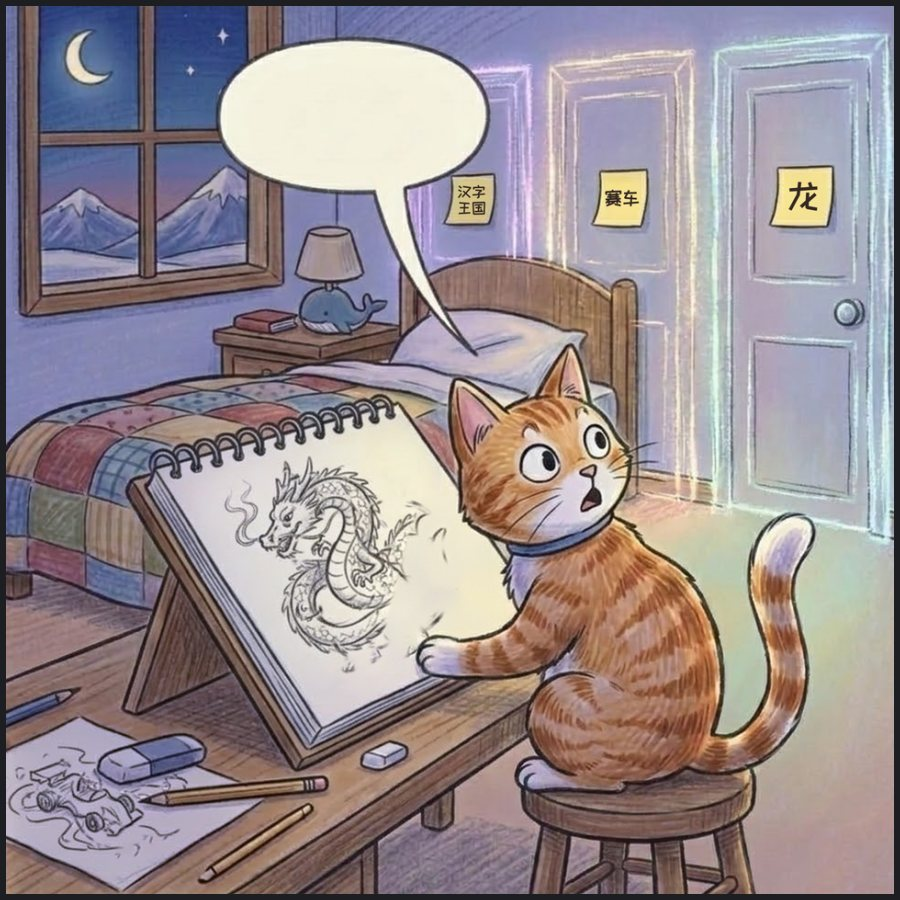
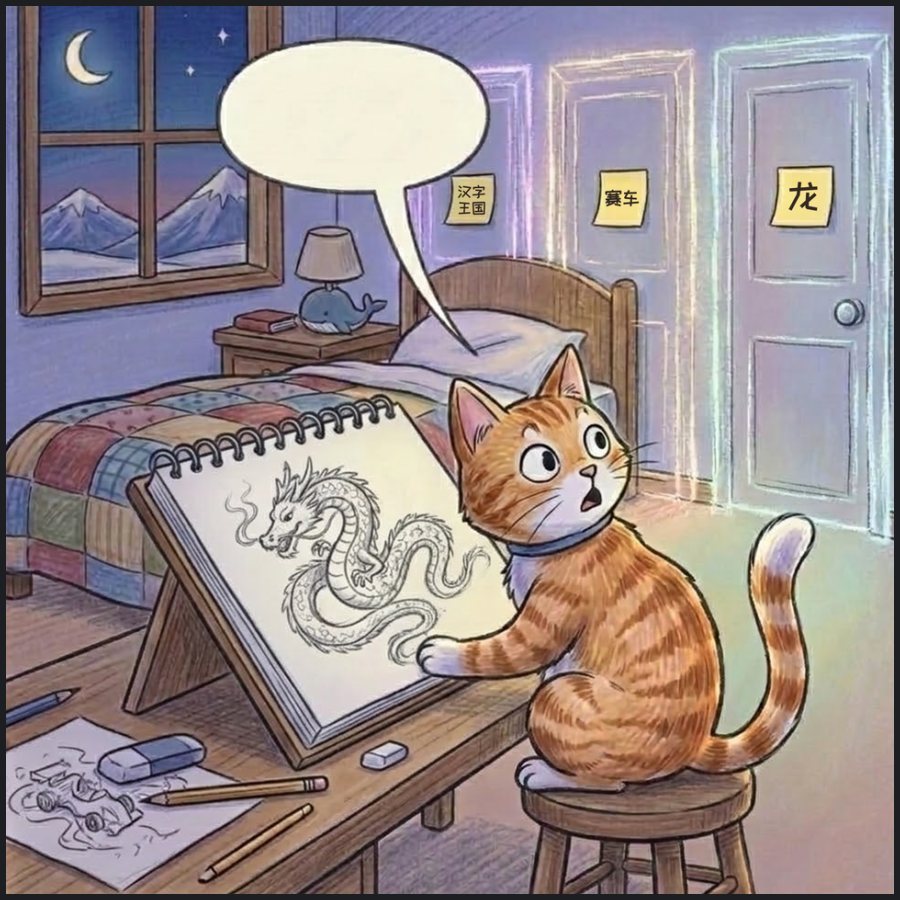
Ep6: new frames 2 and 4 (big dragon)
Claude-Session: https://claude.ai/code/session_01NreAqm5NtqDWekSoZfY2fL

diff --git a/ep6/index.html b/ep6/index.html
@@ -197,7 +197,7 @@ body.show-en .story{gap:2px}
   <section class="panel">
     <div class="story"><p data-line="忽然|，|墙上|亮了起来|，" data-en="Suddenly, the wall lit up,"></p><p data-line="出现了|三扇门|！" data-en="and three doors appeared!"></p><p data-line="每扇门|上|都|贴着|字|。" data-en="Each door had a word stuck on it."></p></div>
     <figure>
-      <img src="sq2.jpg?v=2" alt="Three glowing doors appear on the bedroom wall, each with a note; the cat turns round in surprise" width="900" height="900">
+      <img src="sq2.jpg?v=3" alt="Three glowing doors appear on the bedroom wall, each with a note; the cat turns round in surprise" width="900" height="900">
       <button class="bub" data-who="cat" data-line="咦|？|这|是|什么|？" data-en="Huh? What's this?" data-show="咦？/这是什么？" style="left:28.2%;top:5.8%;width:21.9%;height:14.1%;font-size:4.0cqw;line-height:1.25"></button>
     </figure>
   </section>
@@ -209,10 +209,10 @@ body.show-en .story{gap:2px}
     </figure>
   </section>
   <section class="panel">
-    <div class="story"><p data-line="他|把|门|又|推开了|一些|……" data-en="He pushed the door open a bit more…"></p><p data-line="不知不觉|间|，|一条|小龙|向|他|飞了过来|。" data-en="Without him noticing, a little dragon flew towards him."></p><p data-line="呼|——|喷出了|一团火|！" data-en="Whoosh — it breathed out a ball of fire!"></p></div>
+    <div class="story"><p data-line="他|把|门|又|推开了|一些|……" data-en="He pushed the door open a bit more…"></p><p data-line="不知不觉|间|，|一条|大龙|向|他|飞了过来|。" data-en="Without him noticing, a big dragon flew towards him."></p><p data-line="呼|——|喷出了|一团火|！" data-en="Whoosh — it breathed out a ball of fire!"></p></div>
     <figure>
-      <img src="sq4.jpg?v=1" alt="A little orange dragon flies at the doorway breathing fire while the terrified cat clings to the door" width="900" height="900">
-      <button class="bub" data-who="cat" data-line="龙|？|！|为什么|会|有|龙|啊|？|！" data-en="A dragon?! Why is there a dragon?!" data-show="龙？！/为什么会/有龙啊？！" style="left:12.7%;top:28.2%;width:17.7%;height:13.1%;font-size:3.2cqw;line-height:1.25"></button>
+      <img src="sq4.jpg?v=2" alt="A little orange dragon flies at the doorway breathing fire while the terrified cat clings to the door" width="900" height="900">
+      <button class="bub" data-who="cat" data-line="龙|？|！|为什么|会|有|龙|啊|？|！" data-en="A dragon?! Why is there a dragon?!" data-show="龙？！/为什么会/有龙啊？！" style="left:36.2%;top:24.9%;width:18.0%;height:12.9%;font-size:3.2cqw;line-height:1.25"></button>
     </figure>
   </section>
   <section class="panel">
@@ -256,7 +256,7 @@ body.show-en .story{gap:2px}
 <div id="tip" hidden role="status"></div>
 
 <script>
-const DICT={"今天的": ["jīn tiān de", "today's"], "成语": ["chéng yǔ", "idiom (4-character saying)"], "跳": ["tiào", "jump"], "下一集": ["xià yì jí", "next episode"], "企鹅": ["qǐ é", "penguin"], "名叫": ["míng jiào", "is called, named"], "小林": ["xiǎo lín", "Xiao Lin — the penguin's name"], "猫": ["māo", "cat"], "小懒猫": ["xiǎo lǎn māo", "Little Lazy Cat — the cat's name"], "不知不觉": ["bù zhī bù jué", "without noticing (idiom)"], "晚上": ["wǎn shang", "evening, night"], "在": ["zài", "in, at"], "房间": ["fáng jiān", "room"], "里": ["lǐ", "in, inside"], "画画": ["huà huà", "draw, drawing"], "叫": ["jiào", "call"], "他": ["tā", "he, him"], "吃饭": ["chī fàn", "eat (a meal)"], "可": ["kě", "but"], "太": ["tài", "too, so"], "入迷": ["rù mí", "absorbed, hooked"], "了": ["le", "(done / !)"], "已经": ["yǐ jīng", "already"], "沉浸": ["chén jìn", "lost in, immersed in"], "自己的": ["zì jǐ de", "his own"], "幻想世界": ["huàn xiǎng shì jiè", "world of imagination"], "一点儿": ["yì diǎnr", "a little"], "也": ["yě", "also, (not) even"], "没": ["méi", "didn't"], "听见": ["tīng jiàn", "hear"], "忽然": ["hū rán", "suddenly"], "墙上": ["qiáng shàng", "on the wall"], "亮了起来": ["liàng le qǐ lái", "lit up"], "出现了": ["chū xiàn le", "appeared"], "三扇门": ["sān shàn mén", "three doors"], "每扇门": ["měi shàn mén", "each door"], "上": ["shàng", "on"], "都": ["dōu", "all"], "贴着": ["tiē zhe", "stuck on"], "字": ["zì", "word, character"], "咦": ["yí", "huh?"], "这": ["zhè", "this"], "是": ["shì", "is"], "什么": ["shén me", "what"], "认出": ["rèn chū", "recognise"], "那": ["nà", "that"], "龙": ["lóng", "dragon"], "打开了": ["dǎ kāi le", "opened"], "这扇门": ["zhè shàn mén", "this door"], "哇": ["wā", "wow"], "外面": ["wài miàn", "outside"], "高山": ["gāo shān", "tall mountains"], "和": ["hé", "and"], "大海": ["dà hǎi", "the sea"], "好": ["hǎo", "so, very"], "美": ["měi", "beautiful"], "啊": ["a", "(sound of feeling)"], "看得": ["kàn de", "looked (so…)"], "把": ["bǎ", "(takes something and…)"], "门": ["mén", "door"], "又": ["yòu", "again, more"], "推开了": ["tuī kāi le", "pushed open"], "一些": ["yì xiē", "a bit"], "突然": ["tū rán", "suddenly"], "一条": ["yì tiáo", "a, one (for dragons, fish)"], "小龙": ["xiǎo lóng", "little dragon"], "向": ["xiàng", "towards"], "飞了过来": ["fēi le guò lái", "flew over"], "呼": ["hū", "whoosh"], "喷出了": ["pēn chū le", "breathed out, sprayed out"], "一团火": ["yì tuán huǒ", "a ball of fire"], "为什么": ["wèi shén me", "why"], "会": ["huì", "would, will"], "有": ["yǒu", "have, there is"], "砰": ["pēng", "bang!"], "马上": ["mǎ shàng", "right away"], "关上了": ["guān shàng le", "closed"], "它": ["tā", "it"], "应该": ["yīng gāi", "should, probably"], "跑不出来": ["pǎo bù chū lái", "can't get out"], "吧": ["ba", "(…right?)"], "等": ["děng", "when, wait until"], "平静": ["píng jìng", "calm"], "下来": ["xià lái", "down"], "第二扇门": ["dì èr shàn mén", "the second door"], "走去": ["zǒu qù", "walk over"], "写着": ["xiě zhe", "written on it"], "赛车": ["sài chē", "racing car"], "两个": ["liǎng gè", "two"], "后面": ["hòu miàn", "behind"], "呢": ["ne", "(question word)"], "你": ["nǐ", "you"], "猜": ["cāi", "guess"], "很多": ["hěn duō", "lots of"], "又是": ["yòu shì", "another, yet again"], "好吃的": ["hǎo chī de", "yummy"], "烤鱼": ["kǎo yú", "grilled fish"], "可能": ["kě néng", "possible"], "哦": ["o", "(oh!)"], "哈哈": ["hā hā", "haha"], "就": ["jiù", "then"], "吓人": ["xià rén", "scary"], "一定": ["yí dìng", "surely"], "很": ["hěn", "very"], "想要": ["xiǎng yào", "want"], "猫猫": ["māo mao", "Kitty (pet name for the cat)"], "间": ["jiān", "(in the time of)"], "好奇": ["hào qí", "curious"], "地": ["de", "(…-ly)"]};
+const DICT={"今天的": ["jīn tiān de", "today's"], "成语": ["chéng yǔ", "idiom (4-character saying)"], "跳": ["tiào", "jump"], "下一集": ["xià yì jí", "next episode"], "企鹅": ["qǐ é", "penguin"], "名叫": ["míng jiào", "is called, named"], "小林": ["xiǎo lín", "Xiao Lin — the penguin's name"], "猫": ["māo", "cat"], "小懒猫": ["xiǎo lǎn māo", "Little Lazy Cat — the cat's name"], "不知不觉": ["bù zhī bù jué", "without noticing (idiom)"], "晚上": ["wǎn shang", "evening, night"], "在": ["zài", "in, at"], "房间": ["fáng jiān", "room"], "里": ["lǐ", "in, inside"], "画画": ["huà huà", "draw, drawing"], "叫": ["jiào", "call"], "他": ["tā", "he, him"], "吃饭": ["chī fàn", "eat (a meal)"], "可": ["kě", "but"], "太": ["tài", "too, so"], "入迷": ["rù mí", "absorbed, hooked"], "了": ["le", "(done / !)"], "已经": ["yǐ jīng", "already"], "沉浸": ["chén jìn", "lost in, immersed in"], "自己的": ["zì jǐ de", "his own"], "幻想世界": ["huàn xiǎng shì jiè", "world of imagination"], "一点儿": ["yì diǎnr", "a little"], "也": ["yě", "also, (not) even"], "没": ["méi", "didn't"], "听见": ["tīng jiàn", "hear"], "忽然": ["hū rán", "suddenly"], "墙上": ["qiáng shàng", "on the wall"], "亮了起来": ["liàng le qǐ lái", "lit up"], "出现了": ["chū xiàn le", "appeared"], "三扇门": ["sān shàn mén", "three doors"], "每扇门": ["měi shàn mén", "each door"], "上": ["shàng", "on"], "都": ["dōu", "all"], "贴着": ["tiē zhe", "stuck on"], "字": ["zì", "word, character"], "咦": ["yí", "huh?"], "这": ["zhè", "this"], "是": ["shì", "is"], "什么": ["shén me", "what"], "认出": ["rèn chū", "recognise"], "那": ["nà", "that"], "龙": ["lóng", "dragon"], "打开了": ["dǎ kāi le", "opened"], "这扇门": ["zhè shàn mén", "this door"], "哇": ["wā", "wow"], "外面": ["wài miàn", "outside"], "高山": ["gāo shān", "tall mountains"], "和": ["hé", "and"], "大海": ["dà hǎi", "the sea"], "好": ["hǎo", "so, very"], "美": ["měi", "beautiful"], "啊": ["a", "(sound of feeling)"], "看得": ["kàn de", "looked (so…)"], "把": ["bǎ", "(takes something and…)"], "门": ["mén", "door"], "又": ["yòu", "again, more"], "推开了": ["tuī kāi le", "pushed open"], "一些": ["yì xiē", "a bit"], "突然": ["tū rán", "suddenly"], "一条": ["yì tiáo", "a, one (for dragons, fish)"], "小龙": ["xiǎo lóng", "little dragon"], "向": ["xiàng", "towards"], "飞了过来": ["fēi le guò lái", "flew over"], "呼": ["hū", "whoosh"], "喷出了": ["pēn chū le", "breathed out, sprayed out"], "一团火": ["yì tuán huǒ", "a ball of fire"], "为什么": ["wèi shén me", "why"], "会": ["huì", "would, will"], "有": ["yǒu", "have, there is"], "砰": ["pēng", "bang!"], "马上": ["mǎ shàng", "right away"], "关上了": ["guān shàng le", "closed"], "它": ["tā", "it"], "应该": ["yīng gāi", "should, probably"], "跑不出来": ["pǎo bù chū lái", "can't get out"], "吧": ["ba", "(…right?)"], "等": ["děng", "when, wait until"], "平静": ["píng jìng", "calm"], "下来": ["xià lái", "down"], "第二扇门": ["dì èr shàn mén", "the second door"], "走去": ["zǒu qù", "walk over"], "写着": ["xiě zhe", "written on it"], "赛车": ["sài chē", "racing car"], "两个": ["liǎng gè", "two"], "后面": ["hòu miàn", "behind"], "呢": ["ne", "(question word)"], "你": ["nǐ", "you"], "猜": ["cāi", "guess"], "很多": ["hěn duō", "lots of"], "又是": ["yòu shì", "another, yet again"], "好吃的": ["hǎo chī de", "yummy"], "烤鱼": ["kǎo yú", "grilled fish"], "可能": ["kě néng", "possible"], "哦": ["o", "(oh!)"], "哈哈": ["hā hā", "haha"], "就": ["jiù", "then"], "吓人": ["xià rén", "scary"], "一定": ["yí dìng", "surely"], "很": ["hěn", "very"], "想要": ["xiǎng yào", "want"], "猫猫": ["māo mao", "Kitty (pet name for the cat)"], "间": ["jiān", "(in the time of)"], "好奇": ["hào qí", "curious"], "地": ["de", "(…-ly)"], "大龙": ["dà lóng", "big dragon"]};
 const WHO={penguin:["小林","face-penguin.jpg"],cat:["小懒猫","face-cat.jpg"]};
 
 let seen={};

diff --git a/index.html b/index.html
@@ -76,7 +76,7 @@ h1{font-family:var(--display);font-weight:400;font-size:clamp(2.4rem,10vw,3.4rem
       <div class="info"><div class="num">Episode 5</div><div class="ttl">乱七八糟</div><div class="idiom"><b>乱七八糟</b><span>luàn qī bā zāo · a total mess</span></div></div>
     </a>
     <a class="ep" href="ep6/">
-      <img src="ep6.jpg?v=2" alt="">
+      <img src="ep6.jpg?v=3" alt="">
       <div class="info"><div class="num">Episode 6</div><div class="ttl">幻想世界（一）</div><div class="idiom"><b>不知不觉</b><span>bù zhī bù jué · without noticing</span></div></div>
     </a>
     <div class="soon">第七集<br>快来了……</div>
